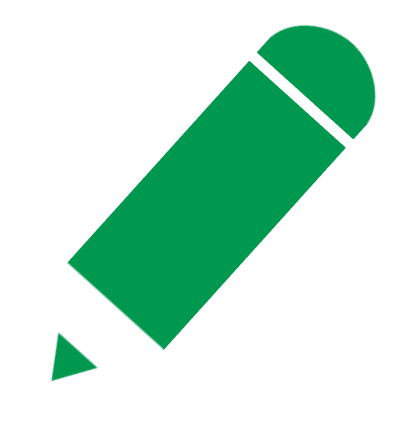
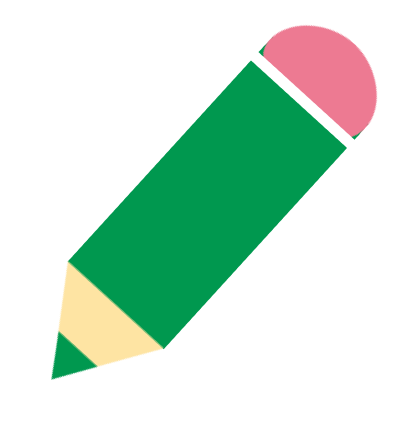
0.0.36 mensajes motivadores

diff --git a/assets/css/mystyle_bosque_bambu.css b/assets/css/mystyle_bosque_bambu.css
@@ -306,13 +306,13 @@ body {
 .goma,
 .cuerpo,
 .punta {
-    width: 40px;
+    width: 75px;
     transition: opacity 0.5s ease, transform 0.5s ease;
 }
 
 .goma {
-    height: 20px;
-    background-color: #00984F;
+    height: 50px;
+    background-color: #ED7A92;
     border-radius: 5px 5px 0 0;
     border: 2px solid white;
     /* Contorno blanco */
@@ -321,8 +321,8 @@ body {
 }
 
 .cuerpo {
-    height: 60px;
-    width: 40px;
+    height: 150px;
+    width: 75px;
     /* Asegúrate de tener un ancho definido */
     background-color: #00984F;
     /* Verde */
@@ -338,9 +338,11 @@ body {
 .punta {
     width: 0;
     height: 0;
-    border-left: 20px solid transparent;
-    border-right: 20px solid transparent;
-    border-top: 25px solid #00984F;
+    border: 2px solid rgb(0, 0, 0);
+    border-radius: 5px;
+    border-left: 35px solid transparent;
+    border-right: 35px solid transparent;
+    border-top: 40px solid #FEE4A3;
 
 }
 

diff --git a/application/views/aventuras_del_trazo/bosque_bambu/descubriendo_palabras_b.php b/application/views/aventuras_del_trazo/bosque_bambu/descubriendo_palabras_b.php
@@ -12,7 +12,7 @@
                     <p>
                         Prepárate para una emocionante misión: ¡Ayuda al Dino a descubrir las palabras secretas que se forman con la letra b!<br>
                         <b> Instrucciones del juego</b> <br>
-                        Observa la imagen y descubre la palabra correcta que que comienza con la letra "b". Arrastra las letras a los contenedores para descubrir la palabra correcta. <br>
+                        ¡Descubre la palabra secreta! Arrastra las letras a los cuadros verdes para formar la palabra, cuando termines haz clic en el botón verde ✅ para verificar tu respuesta. <br>
                         Da clic en el botón azul, para saber <button type="button" class="btn btn-primary" data-bs-toggle="modal" data-bs-target="#videoModal">
                             ¿Cómo jugar?
                         </button> <br>
@@ -57,7 +57,6 @@
             <div class="col-lg-12 col-md-12 col-12 text-center" id="contenedorJuego">
                 <audio id="audioVista2" src="<?php echo base_url('almacenamiento/audios/audio_gd_j.mp3') ?>" preload="auto"></audio>
 
-                <!-- <?php echo $this->session->userdata('identificador'); ?> -->
                 <div class="col-lg-12 col-md-12 col-12 position-relative mt-5 text-center mx-auto" id="animacionCarga" style="max-width: 800px; ">
                     <!-- Texto Cargando -->
                     <p id="loadingText" class="texto_loading">Cargando...</p>
@@ -301,6 +300,8 @@
                 casillaLetra.draggable = true;
                 casillaLetra.addEventListener("dragstart", iniciarArrastre);
                 contenedorLetras.appendChild(casillaLetra);
+
+
             });
 
             for (let i = 0; i < palabraActual.palabra.length; i++) {
@@ -310,6 +311,7 @@
                 casillaPalabra.addEventListener("dblclick", limpiarCasilla);
                 contenedorPalabra.appendChild(casillaPalabra);
             }
+
 
         }
         // Iniciar el arrastre táctil
@@ -389,6 +391,7 @@
 
         function iniciarArrastre(evento) {
             elementoArrastrado = evento.target;
+
         }
 
         contenedorPalabra.ondragover = (evento) => evento.preventDefault();
@@ -406,10 +409,12 @@
                 if (correcto) {
                     elementoArrastrado.draggable = false;
                     elementoArrastrado.style.opacity = 0.5;
+                    
                 } else {
                     elementoArrastrado.style.visibility = "hidden";
                 }
             }
+
         };
 
         function limpiarCasilla(evento) {
@@ -447,10 +452,9 @@
                 }
             });
 
-
             // Manejar el caso cuando no hay errores
             if (!errores) {
-                mensaje.textContent = "¡Super asombroso!🎉 Has formado bien la palabra. Recompensa 200 estrellas";
+                mensaje.textContent = "¡Super asombroso, <?php echo $this->session->userdata('usuario'); ?>, palabra descubierta! 🎉 Ganaste +200 estrellas";
                 mensaje.className = "correcto";
                 estrellas += 200;
 
@@ -525,7 +529,7 @@
                 if (contadorIncorrectas === 3) {
                     mostrarLapizRoto(3);
                 }
-                mensaje.textContent = `¡Buen intento!🌟 Las casillas rojas están mal colocadas, da dos veces clic en la ficha roja para corregir y vuelve a verificar ✅. Te quedan solo ${vidas} intentos`;
+                mensaje.textContent = `¡Casi logrado <?php echo $this->session->userdata('usuario'); ?>!🌟 Las letras rojas no van ahí, dales doble clic y vuelve a intentar✅ ¡Tu puedes!. Te quedan solo ${vidas} intentos`;
                 mensaje.className = "incorrecto";
                 // nuevapalabrasIncorrectas = palabrasIncorrectas.push(palabraActual.palabra);
                 console.log('Incorrectas', contadorIncorrectas);
@@ -547,6 +551,7 @@
 
                 // Si las vidas llegan a 0, desactivar el botón de verificar
                 if (vidas <= 0) {
+                    mostrarMensajeExito();
                     mensaje.textContent = `Juego terminado. ¡A seguir practicando, te has quedado sin intentos! 💪. Ganaste ${estrellas} estrellas, descubriste ${contadorBuenas} palabras y lo hiciste en un tiempo de ${formatTime(minutes)}:${formatTime(seconds)}.`;
                     mensaje.className = "incorrecto";
                     clearInterval(timer);
@@ -569,6 +574,66 @@
 
                 }
             }
+        }
+
+        function mostrarMensajeExito() {
+            // Crear el mensaje de éxito
+            const mensaje = document.createElement('div');
+            mensaje.textContent = `Recomepensa acumulada ${estrellas}`;
+            mensaje.innerHTML = `¡Muy cerca, <?php echo $this->session->userdata('usuario'); ?>!<br>
+            Usaste tus 3 intentos, a seguir practicando ¡Tú puedes!💪<br>
+            Ganaste: <strong>${estrellas}</strong> estrellas. 🌟 <br>
+            Encontraste <strong>${contadorBuenas}</strong> palabras. 📝 <br>
+            Tiempo <strong>${formatTime(minutes)}:${formatTime(seconds)}</strong> 📝 <br>`;
+            mensaje.style.color = '#214524';
+            mensaje.style.fontWeight = 'bold';
+            mensaje.style.position = 'absolute';
+            mensaje.style.top = '50px'; // Posición en la pantalla
+            mensaje.style.left = '50%'; // Centrar horizontalmente
+            mensaje.style.transform = 'translateX(-50%)'; // Centrar correctamente
+            mensaje.style.backgroundColor = '#ffffff';
+            mensaje.style.border = '5px solid #00984f';
+            mensaje.style.padding = '10px';
+            mensaje.style.borderRadius = '5px';
+            mensaje.style.zIndex = '9999'; // Asegurar que el mensaje esté encima del canvas
+            audioEstrellas.play().catch(error => {
+                console.log("Error al reproducir el audio:", error);
+            });
+
+            // Agregar los botones para seguir o no trazando
+            const botones = document.createElement('div');
+            botones.style.marginTop = '10px';
+            const botonSeguir = document.createElement('button');
+            botonSeguir.textContent = 'Sí, seguir trazando';
+            botonSeguir.style.marginRight = '10px';
+            botonSeguir.classList.add('btn', 'btn-success');
+
+            const botonNoSeguir = document.createElement('button');
+            botonNoSeguir.textContent = 'No, ir al menú principal';
+            botonNoSeguir.classList.add('btn', 'btn-danger');
+
+            // Acción al hacer clic en "Sí, seguir trazando"
+            botonSeguir.addEventListener('click', () => {
+                ctx.clearRect(0, 0, canvas.width, canvas.height); // Limpiar el lienzo
+                trazoRealizado = false; // Restablecer trazo
+                botonGuardar.style.display = "none"; // Ocultar el botón de guardar
+                mensaje.remove(); // Eliminar el mensaje
+            });
+
+            // Acción al hacer clic en "No, ir al menú principal"
+            botonNoSeguir.addEventListener('click', () => {
+                window.location.href = '<?php echo base_url('letras/bosque_bambu'); ?>'; // Cambiar la URL del menú principal
+            });
+
+            // Añadir los botones al mensaje
+            botones.appendChild(botonSeguir);
+            botones.appendChild(botonNoSeguir);
+            mensaje.appendChild(botones);
+
+            // Añadir el mensaje al body
+            document.body.appendChild(mensaje);
+
+
         }
 
         function saltarPalabra() {
@@ -732,7 +797,16 @@
             document.getElementById("saltarPalabraBtn").disabled = true;
             document.getElementById("finalizarJuegoBtn").disabled = true;
 
+
         }
+        contenedorPalabra.addEventListener('input', function() {
+            // Verificar si ya se completó la palabra
+            const todasLasCasillasLlenas = Array.from(contenedorPalabra.children).every(casilla => casilla.textContent.trim() !== '');
+
+            if (todasLasCasillasLlenas) {
+                verificarPalabra(); // Llamar a la función automáticamente
+            }
+        });
 
         function reiniciarJuego() {
             console.log("juego reiniciado");

diff --git a/application/controllers/Login.php b/application/controllers/Login.php
@@ -26,7 +26,7 @@ class Login extends CI_Controller
 	public function autenticacion()
 	{
 		// Reglas de validación de formularios
-		$this->form_validation->set_rules('usuario', 'Usuario', 'required');
+		$this->form_validation->set_rules('usuario', 'usuario', 'required');
 		$this->form_validation->set_rules('contrasenia', 'contrasenia', 'required');
 
 
@@ -46,7 +46,7 @@ class Login extends CI_Controller
 				redirect('login'); // Redirige al formulario de inicio de sesión
 			}
 
-			$this->session->set_flashdata('usuario', $this->input->post('usuario'));
+			// $this->session->set_flashdata('usuario', $this->input->post('usuario'));
 
 			if (!password_verify($this->input->post('contrasenia'), $usuario_row->contrasenia)) {
 				// Contraseña incorrecta
@@ -58,8 +58,6 @@ class Login extends CI_Controller
 				$usuario_row->usuario,
 				$usuario_row->correo_tutor,
 				$usuario_row->identificador,
-
-
 				//$relacion_usuario_rol_row->rol_id
 				null
 			);
